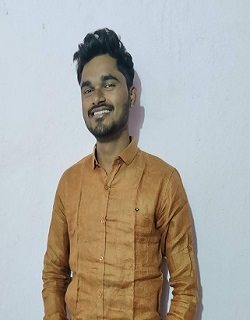
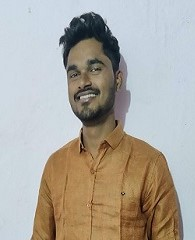
Update Rank Holder Cards

diff --git a/pages/academics/rankHolders.html b/pages/academics/rankHolders.html
@@ -292,6 +292,9 @@
             <div class="col-lg-9">
                 <div class="col-md-12 bg-pure card-shadow p-3" style="border: 1px solid rgba(0,0,0,.125);">
                     
+                    
+                    
+                    
                     <!-- Top Section -->
                     <h5 class="fw-bold text-primary section-heading py-2">List of Toppers (A.Y. 2019-20, Semester II)</h5>
 
@@ -317,114 +320,78 @@
                                     <div class="row g-4">
                                         <div class="col-md-4">
                                             <div class="topper_card card-shadow">
-                                                <div class="image_for_overlay w-100">
-                                                    <img    src="../../assets/img/Toppers/BE/SwapnilValekar.jpg"
-                                                        alt="top_pic"
-                                                        class="img-fluid topper_pic img_overlay"
-                                                    >
-                                                    <div class="image_overlay_content">
-                                                        <h5 class="p-2 text-center image_overlay_desc">
-                                                            Rank 1
-                                                        </h5>
-                                                    </div>
+                                                <div class="p-4 text-center">
+                                                    <img src="../../assets/img/Toppers/BE/SwapnilValekar.jpg" 
+                                                        class="topper_pic" 
+                                                        alt="photo">
                                                 </div>
                                                 <div class="fw-bold p-2 text-center">Swapnil Valekar</div>
-                                                <div class="pb-2 text-muted text-center">
+                                                <div class="pb-4 text-muted text-center">
                                                     CGPA: 9.88
                                                 </div>
                                             </div>
                                         </div>
                                         <div class="col-md-4">
                                             <div class="topper_card card-shadow">
-                                                <div class="image_for_overlay w-100">
-                                                    <img    src="../../assets/img/Toppers/BE/DeepakDesai.jpg"
-                                                        alt="top_pic"
-                                                        class="img-fluid topper_pic img_overlay"
-                                                    >
-                                                    <div class="image_overlay_content">
-                                                        <h5 class="p-2 text-center image_overlay_desc">
-                                                            Rank 2
-                                                        </h5>
-                                                    </div>
+                                                <div class="p-4 text-center">
+                                                    <img src="../../assets/img/Toppers/BE/DeepakDesai.jpg" 
+                                                        class="topper_pic" 
+                                                        alt="photo">
                                                 </div>
                                                 <div class="fw-bold p-2 text-center">Deepak Desai</div>
-                                                <div class="pb-2 text-muted text-center">
+                                                <div class="pb-4 text-muted text-center">
                                                     CGPA: 9.64
                                                 </div>
                                             </div>
                                         </div>
                                         <div class="col-md-4">
                                             <div class="topper_card card-shadow">
-                                                <div class="image_for_overlay w-100">
-                                                    <img    src="../../assets/img/Toppers/BE/DnyaneshwarTandale.jpg"
-                                                        alt="top_pic"
-                                                        class="img-fluid topper_pic img_overlay"
-                                                    >
-                                                    <div class="image_overlay_content">
-                                                        <h5 class="p-2 text-center image_overlay_desc">
-                                                            Rank 3
-                                                        </h5>
-                                                    </div>
-                                                </div>
+                                                <div class="p-4 text-center">
+                                                    <img src="../../assets/img/Toppers/BE/DnyaneshwarTandale.jpg" 
+                                                        class="topper_pic" 
+                                                        alt="photo">
+                                                </div>                                                
                                                 <div class="fw-bold p-2 text-center">Dnyaneshwar Tandale</div>
-                                                <div class="pb-2 text-muted text-center">
+                                                <div class="pb-4 text-muted text-center">
                                                     CGPA: 9.48
                                                 </div>
                                             </div>
                                         </div>
                                         <div class="col-md-4">
                                             <div class="topper_card card-shadow">
-                                                <div class="image_for_overlay w-100">
-                                                    <img    src="../../assets/img/Toppers/BE/PratikshaWarule.jpg"
-                                                        alt="top_pic"
-                                                        class="img-fluid topper_pic img_overlay"
-                                                    >
-                                                    <div class="image_overlay_content">
-                                                        <h5 class="p-2 text-center image_overlay_desc">
-                                                            Rank 3
-                                                        </h5>
-                                                    </div>
-                                                </div>
+                                                <div class="p-4 text-center">
+                                                    <img src="../../assets/img/Toppers/BE/PratikshaWarule.jpg" 
+                                                        class="topper_pic" 
+                                                        alt="photo">
+                                                </div>                                                
                                                 <div class="fw-bold p-2 text-center">Pratiksha Warule</div>
-                                                <div class="pb-2 text-muted text-center">
+                                                <div class="pb-4 text-muted text-center">
                                                     CGPA: 9.48
                                                 </div>
                                             </div>
                                         </div>
                                         <div class="col-md-4">
                                             <div class="topper_card card-shadow">
-                                                <div class="image_for_overlay w-100">
-                                                    <img    src="../../assets/img/Toppers/BE/VedantikaTaskar .jpg"
-                                                        alt="top_pic"
-                                                        class="img-fluid topper_pic img_overlay"
-                                                    >
-                                                    <div class="image_overlay_content">
-                                                        <h5 class="p-2 text-center image_overlay_desc">
-                                                            Rank 4
-                                                        </h5>
-                                                    </div>
-                                                </div>
+                                                <div class="p-4 text-center">
+                                                    <img src="../../assets/img/Toppers/BE/VedantikaTaskar .jpg" 
+                                                        class="topper_pic" 
+                                                        alt="photo">
+                                                </div>                                                 
                                                 <div class="fw-bold p-2 text-center">Vedantika Taskar</div>
-                                                <div class="pb-2 text-muted text-center">
+                                                <div class="pb-4 text-muted text-center">
                                                     CGPA: 9.45
                                                 </div>
                                             </div>
                                         </div>
                                         <div class="col-md-4">
                                             <div class="topper_card card-shadow">
-                                                <div class="image_for_overlay w-100">
-                                                    <img    src="../../assets/img/Toppers/BE/SeemaSajjanshetty.jpg"
-                                                        alt="top_pic"
-                                                        class="img-fluid topper_pic img_overlay"
-                                                    >
-                                                    <div class="image_overlay_content">
-                                                        <h5 class="p-2 text-center image_overlay_desc">
-                                                            Rank 5
-                                                        </h5>
-                                                    </div>
-                                                </div>
+                                                <div class="p-4 text-center">
+                                                    <img src="../../assets/img/Toppers/BE/SeemaSajjanshetty.jpg" 
+                                                        class="topper_pic" 
+                                                        alt="photo">
+                                                </div>                                                 
                                                 <div class="fw-bold p-2 text-center">Seema Sajjanshetty</div>
-                                                <div class="pb-2 text-muted text-center">
+                                                <div class="pb-4 text-muted text-center">
                                                     CGPA: 9.41
                                                 </div>
                                             </div>

diff --git a/pages/about_us/bos_civil.html b/pages/about_us/bos_civil.html
@@ -449,10 +449,10 @@
                                     </tr>
                                     <tr>
                                         <th scope="row">11</th>
-                                        <td class="cus-text-left">Mr P. A. Shinkar, Associate Professor</td>
+                                        <td class="cus-text-left">Mr P. A. Shinkar, Assistant Professor</td>
                                         <td class="cus-text-left">Transportation Engineering and Planning</td>
-                                        <td></td>
-                                        <td></td>
+                                        <td>Subject Head</td>
+                                        <td>Ex-officio</td>
                                     </tr>
                                     <tr>
                                         <th scope="row">12</th>
@@ -463,14 +463,14 @@
                                     </tr>
                                     <tr>
                                         <th scope="row">13</th>
-                                        <td class="cus-text-left">Er. Vikas Patil</td>
+                                        <td class="cus-text-left">Mr. Vikas Patil</td>
                                         <td class="cus-text-left">MD, Savi Infrastructure Properties Pvt. Ltd. Pune</td>
                                         <td>Industry Representative</td>
                                         <td>Chairman</td>
                                     </tr>
                                     <tr>
                                         <th scope="row">14</th>
-                                        <td class="cus-text-left">Mr. Shivaji G. Patil</td>
+                                        <td class="cus-text-left">Dr. Shivaji G. Patil</td>
                                         <td class="cus-text-left">Deputy Chief Executive, MIDC, Pune</td>
                                         <td>Industry Representative</td>
                                         <td>Chairman</td>

diff --git a/pages/about_us/labs.html b/pages/about_us/labs.html
@@ -539,7 +539,7 @@
                             </div>  
                         </div>
 
-                        <div class="s_carousel_item w-100 ">
+                        <div class="s_carousel_item w-100">
                             <img class="carousel_img" src="../../assets/img/laboratories/transportationLab.jpg"  alt="homepage_img1">
                             <div class="labs_carousel_caption">
                                 <div class="labs_carousel_img_label fw-bold p-2 h3">Transportation Engineering Lab</div>
@@ -727,11 +727,13 @@
         <script>
             $('.owl-carousel').owlCarousel({
                 loop:true,
-                dots:false,
+                dots:true,
                 autoplay:true,
                 autoplayTimeout:5000,
                 items:1
             })
+
+
         </script>
     </body>
 </html>

diff --git a/pages/faculty_staff/faculty.html b/pages/faculty_staff/faculty.html
@@ -1123,7 +1123,7 @@
                             <div class="row p-2  d-flex justify-content-center align-items-center">
                                 <dt class="col-sm-4">Designation:</dt>
                                 <dd class="col-sm-8">
-                                    Associate Professor
+                                    Assistant Professor
                                 </dd>
     
                                 <dt class="col-sm-4">Qualification:</dt>
@@ -1160,7 +1160,9 @@
                         </div>
                     </div>
                 </div>
-            </div>  
+            </div> 
+            
+            
         </div>
     </div>
 

diff --git a/assets/css/custom.css b/assets/css/custom.css
@@ -378,7 +378,9 @@ html{
 }
 
 .topper_pic{
-    max-height:320px;
+    border-radius: 50%;
+    height: 140px;
+    width: 140px;
 }
 
 
